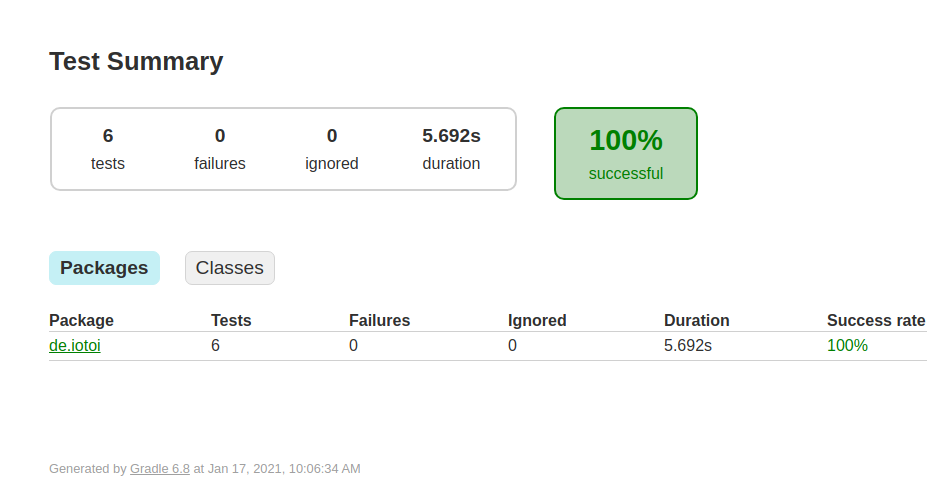
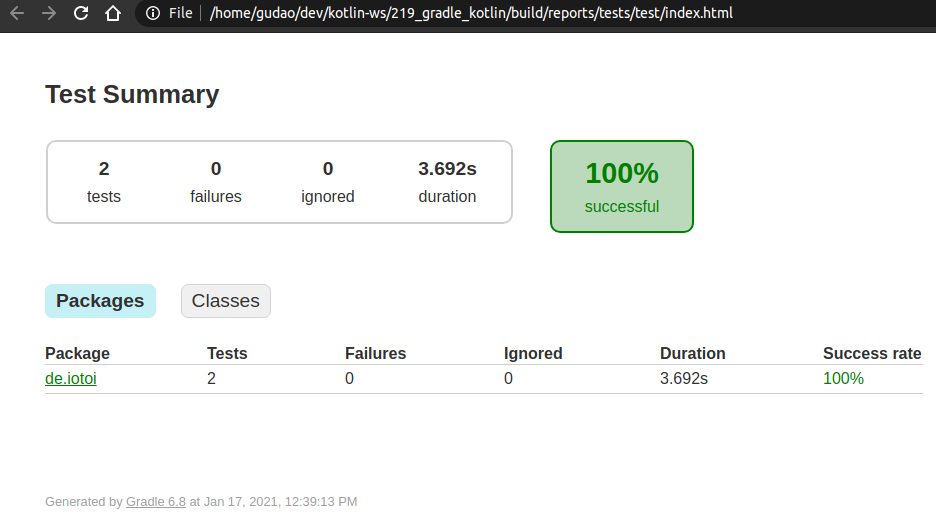
Unit 219: Hello @Order!

diff --git a/src/test/kotlin/de/iotoi/RestAssuredOrderTests.kt b/src/test/kotlin/de/iotoi/RestAssuredOrderTests.kt
@@ -1,0 +1,55 @@
+package de.iotoi
+
+import de.iotoi.model.Book
+import io.restassured.RestAssured
+import org.apache.commons.lang3.RandomStringUtils
+import org.assertj.core.api.Assertions
+import org.junit.jupiter.api.AfterAll
+import org.junit.jupiter.api.MethodOrderer.OrderAnnotation
+import org.junit.jupiter.api.Order
+import org.junit.jupiter.api.Test
+import org.junit.jupiter.api.TestMethodOrder
+import org.springframework.http.HttpStatus
+import org.springframework.http.MediaType
+
+
+@TestMethodOrder(OrderAnnotation::class)
+class RestAssuredOrderTests {
+    private fun createRandomBook(): Book {
+        val book = Book()
+        book.title = RandomStringUtils.randomAlphabetic(10)
+        book.author = RandomStringUtils.randomAlphabetic(15)
+        return book
+    }
+
+    @Test
+    @Order(1)
+    fun firstTest() {
+        val response = RestAssured.get(API_ROOT)
+        Assertions.assertThat(HttpStatus.OK.value()).isEqualTo(response.statusCode)
+
+        output.append("get;")
+    }
+
+    @Test
+    @Order(2)
+    fun secondTest() {
+        val book = createRandomBook()
+        val response = RestAssured.given()
+            .contentType(MediaType.APPLICATION_JSON_VALUE)
+            .body(book)
+            .post(API_ROOT)
+        Assertions.assertThat(HttpStatus.CREATED.value()).isEqualTo(response.statusCode)
+
+        output.append("create;")
+    }
+
+    companion object {
+        private const val API_ROOT = "http://localhost:8080/api/books"
+        private val output = StringBuilder("")
+        @AfterAll
+        fun assertOutput() {
+            Assertions.assertThat(output.toString()).isEqualTo("get;create;")
+        }
+    }
+}

diff --git a/README.md b/README.md
@@ -11,17 +11,15 @@
 [![kotlin lang)](https://img.shields.io/github/v/release/JetBrains/kotlin?label=kotlin&logo=kotlin)](https://github.com/JetBrains/kotlin)
 [![IntelliJ IDEA Community Edition](https://img.shields.io/badge/IntelliJ%20IDEA%20Community%20Edition-blue?style=flat)](https://www.jetbrains.com/idea/download/#section=linux)
 [![Docker-(2019.03.13)](https://img.shields.io/badge/Docker-%2019.03.13-brightgreen)](https://www.docker.com/)
-[![CircleCI](https://circleci.com/gh/cnruby/gradle_kotlin/tree/basic_218.svg?style=svg)](https://app.circleci.com/pipelines/github/cnruby/gradle_kotlin?branch=basic_218)
+[![CircleCI](https://circleci.com/gh/cnruby/gradle_kotlin/tree/basic_219.svg?style=svg)](https://app.circleci.com/pipelines/github/cnruby/gradle_kotlin?branch=basic_219)
 
 
 ---
 
-Unit 218: Hello REST Assured!
-<h1>Unit 218: Hello REST Assured!</h1>
+Unit 219: Hello @Order!
+<h1>Unit 219: Hello @Order!</h1>
 
-- How to Understand The REST Assured 
-- REST Assured is a Java DSL
-- REST Assured simplify testing of REST based services built on top of HTTP Builder
+- How to Understand The Annotation @Order!
 
 
 ---
@@ -35,16 +33,8 @@ Unit 218: Hello REST Assured!
 - [Create A New Kotlin Web App](#create-a-new-kotlin-web-app)
   - [DO (create a new project)](#do-create-a-new-project)
   - [DO (check the project)](#do-check-the-project)
-- [Develop the gradle build file](#develop-the-gradle-build-file)
-  - [DO (add the package `rest-assured` to the gradle build file)](#do-add-the-package-rest-assured-to-the-gradle-build-file)
-  - [DO (check the project to get the error)](#do-check-the-project-to-get-the-error)
-  - [DO (edit a gradle build file for spring boot)](#do-edit-a-gradle-build-file-for-spring-boot)
-  - [DO (check the project again to get many warnings)](#do-check-the-project-again-to-get-many-warnings)
-  - [DO (edit a gradle build file for spring boot again)](#do-edit-a-gradle-build-file-for-spring-boot-again)
-  - [DO (check the project noch again)](#do-check-the-project-noch-again)
-- [DO (Upgrade the gradle version to 6.8)](#do-upgrade-the-gradle-version-to-68)
-- [Develop REST Assured Testing for The Web App](#develop-rest-assured-testing-for-the-web-app)
-  - [DO (add a new book controller testing file)](#do-add-a-new-book-controller-testing-file)
+- [Develop REST Assured Testing about the Annotation @Order](#develop-rest-assured-testing-about-the-annotation-order)
+  - [DO (add a new book testing file with the annotation @Order)](#do-add-a-new-book-testing-file-with-the-annotation-order)
   - [DO (start the web app)](#do-start-the-web-app)
   - [DO (run the testing in the project with gradle)](#do-run-the-testing-in-the-project-with-gradle)
   - [DO (see the testing report)](#do-see-the-testing-report)
@@ -55,7 +45,7 @@ Unit 218: Hello REST Assured!
 
 
 ## Keywords
-- `Rest Assured` `Web Application` REST API Testing
+- Annotation `@Order` `Rest Assured` `Web Application` REST API Testing
 - `Java JDK` `Command Line Kotlin Compiler` `IntelliJ CE` CircleCI CI
 - tutorial example Kotlin REPL Ubuntu Gradle jabba JDK Java JVM
 - database h2 Console `Spring Boot` `Spring DataSource` JPA Hibernate Classpath h2
@@ -77,7 +67,7 @@ Unit 218: Hello REST Assured!
 
 ### DO (create a new project)
 ```bash
-EXISTING_APP_ID=216 && NEW_APP_ID=218 && \
+EXISTING_APP_ID=218 && NEW_APP_ID=219 && \
 git clone -b basic_${EXISTING_APP_ID} https://github.com/cnruby/gradle_kotlin.git ${NEW_APP_ID}_gradle_kotlin && \
 cd ${NEW_APP_ID}_gradle_kotlin
 ```
@@ -93,220 +83,70 @@ cd ${NEW_APP_ID}_gradle_kotlin
 
 
 
-## Develop the gradle build file
+## Develop REST Assured Testing about the Annotation @Order
 
-### DO (add the package `rest-assured` to the gradle build file)
+### DO (add a new book testing file with the annotation @Order)
 ```bash
-nano ./build.gradle.kts
-```
-```sql
--- FILE (build.gradle.kts)
-...
-	testImplementation("org.springframework.boot:spring-boot-starter-test")
-	testImplementation("io.rest-assured:rest-assured")
-}
-```
-
-### DO (check the project to get the error)
-```bash
-./gradlew -q clean check
+touch ./src/test/kotlin/de/iotoi/RestAssuredOrderTests.kt
 ```
 ```bash
-    # >> Result
-    Errors occurred while build effective model from /home/gudao/.gradle/caches/modules-2/files-2.1/com.sun.xml.bind/jaxb-osgi/2.2.10/c926a537af564ec047ec6308df1d0d2a03364a86/jaxb-osgi-2.2.10.pom:
-    'dependencyManagement.dependencies.dependency.systemPath' for com.sun:tools:jar must specify an absolute path but is ${tools.jar} in com.sun.xml.bind:jaxb-osgi:2.2.10    
-```
-
-### DO (edit a gradle build file for spring boot)
-```bash
-nano ./build.gradle.kts
-```
-```sql
--- FILE (build.gradle.kts)
-...
-	testImplementation("org.springframework.boot:spring-boot-starter-test")
-	testImplementation("io.rest-assured:rest-assured"){
-		exclude("com.sun.xml.bind", "jaxb-osgi")
-	}
-}
-...
-```
-
-### DO (check the project again to get many warnings)
-
-```bash
-./gradlew -q check
-```
-```bash
-    # >> Result
-    WARNING: An illegal reflective access operation has occurred
-    WARNING: Illegal reflective access by org.codehaus.groovy.reflection.CachedClass (file:/home/gudao/.gradle/caches/modules-2/files-2.1/org.codehaus.groovy/groovy/2.5.14/f0a005fb21e7bd9b7ebf04cd2ecda0fc8f3be59d/groovy-2.5.14.jar) to method java.lang.Object.finalize()
-    WARNING: Please consider reporting this to the maintainers of org.codehaus.groovy.reflection.CachedClass
-    WARNING: Use --illegal-access=warn to enable warnings of further illegal reflective access operations
-    WARNING: All illegal access operations will be denied in a future release
-```
-
-### DO (edit a gradle build file for spring boot again)
-```bash
-nano ./build.gradle.kts
-```
-```sql
--- FILE (build.gradle.kts)
-...
-	useJUnitPlatform()
-	jvmArgs("--illegal-access=deny")
-...
-```
-
-### DO (check the project noch again)
-```bash
-./gradlew -q clean check
-```
-```bash
-    # >> Result: nothing
-```
-
-
-
-
-## DO (Upgrade the gradle version to 6.8)
-```bash
-./gradlew wrapper --gradle-version=6.8
-```
-```bash
-    # >> Result
-    Welcome to Gradle 6.8!
-    
-    Here are the highlights of this release:
-     - Faster Kotlin DSL script compilation
-     - Vendor selection for Java toolchains
-     - Convenient execution of tasks in composite builds
-     - Consistent dependency resolution
-    
-    For more details see https://docs.gradle.org/6.8/release-notes.html
-```
-
-
-
-
-## Develop REST Assured Testing for The Web App
-
-### DO (add a new book controller testing file)
-```bash
-touch ./src/test/kotlin/de/iotoi/RestAssuredBookControllerTests.kt
-```
-```bash
-nano ./src/test/kotlin/de/iotoi/RestAssuredBookControllerTests.kt
+nano ./src/test/kotlin/de/iotoi/RestAssuredOrderTests.kt
 ```
 ```kotlin
-# FILE (RestAssuredBookControllerTests.kt)
+// FILE (RestAssuredOrderTests)
 package de.iotoi
 
 import de.iotoi.model.Book
 import io.restassured.RestAssured
-import io.restassured.response.Response
 import org.apache.commons.lang3.RandomStringUtils
-import org.assertj.core.api.Assertions.assertThat
+import org.assertj.core.api.Assertions
+import org.junit.jupiter.api.AfterAll
+import org.junit.jupiter.api.MethodOrderer.OrderAnnotation
+import org.junit.jupiter.api.Order
 import org.junit.jupiter.api.Test
+import org.junit.jupiter.api.TestMethodOrder
 import org.springframework.http.HttpStatus
 import org.springframework.http.MediaType
 
+@TestMethodOrder(OrderAnnotation::class)
+class RestAssuredOrderTests {
+  private fun createRandomBook(): Book {
+    val book = Book()
+    book.title = RandomStringUtils.randomAlphabetic(10)
+    book.author = RandomStringUtils.randomAlphabetic(15)
+    return book
+  }
 
-class RestAssuredBookControllerTests {
-    private fun createRandomBook(): Book {
-        val book = Book()
-        book.title = RandomStringUtils.randomAlphabetic(10)
-        book.author = RandomStringUtils.randomAlphabetic(15)
-        return book
-    }
+  @Test
+  @Order(1)
+  fun firstTest() {
+    val response = RestAssured.get(API_ROOT)
+    Assertions.assertThat(HttpStatus.OK.value()).isEqualTo(response.statusCode)
 
-    private fun createBookAsUri(book: Book): String {
-        val response: Response = RestAssured.given()
-            .contentType(MediaType.APPLICATION_JSON_VALUE)
-            .body(book)
-            .post(API_ROOT)
-        return API_ROOT + "/" + response.jsonPath().get("id")
-    }
+    output.append("get;")
+  }
 
-    /*******************************************
-     *
-     * test finding books using variant methods
-     *
-     */
-    @Test
-    fun whenGetAllBooks_thenOK() {
-        val response = RestAssured.get(API_ROOT)
-        assertThat(HttpStatus.OK.value()).isEqualTo(response.statusCode)
-    }
+  @Test
+  @Order(2)
+  fun secondTest() {
+    val book = createRandomBook()
+    val response = RestAssured.given()
+      .contentType(MediaType.APPLICATION_JSON_VALUE)
+      .body(book)
+      .post(API_ROOT)
+    Assertions.assertThat(HttpStatus.CREATED.value()).isEqualTo(response.statusCode)
 
-    @Test
-    fun whenGetBooksByTitle_thenOK() {
-        val book: Book = createRandomBook()
-        createBookAsUri(book)
-        val response = RestAssured.get(
-            API_ROOT + "/title/" + book.title
-        )
-        assertThat(HttpStatus.OK.value()).isEqualTo(response.statusCode)
-        assertThat(
-            response.`as`<List<*>>(MutableList::class.java).isNotEmpty()
-        ).isTrue
-    }
+    output.append("create;")
+  }
 
-    @Test
-    fun whenGetCreatedBookById_thenOK() {
-        val book: Book = createRandomBook()
-        val location = createBookAsUri(book)
-        val response = RestAssured.get(location)
-        assertThat(HttpStatus.OK.value()).isEqualTo(response.statusCode)
-        assertThat(book.title).isEqualTo(response.jsonPath()["title"])
+  companion object {
+    private const val API_ROOT = "http://localhost:8080/api/books"
+    private val output = StringBuilder("")
+    @AfterAll
+    fun assertOutput() {
+      Assertions.assertThat(output.toString()).isEqualTo("get;create;")
     }
-
-    @Test
-    fun whenGetNotExistBookById_thenNotFound() {
-        val response = RestAssured.get(API_ROOT + "/" + RandomStringUtils.randomNumeric(4))
-        println("response.statusCode = " + response.statusCode)
-        assertThat(HttpStatus.NOT_FOUND.value()).isEqualTo(response.statusCode)
-    }
-
-    /*************************************
-     *
-     * test creating a new book
-     *
-     */
-    @Test
-    fun whenCreateNewBook_thenCreated() {
-        val book: Book = createRandomBook()
-        val response: Response = RestAssured.given()
-            .contentType(MediaType.APPLICATION_JSON_VALUE)
-            .body(book)
-            .post(API_ROOT)
-        assertThat(HttpStatus.CREATED.value()).isEqualTo(response.statusCode)
-    }
-
-    /*************************************
-     *
-     * test updating an existing book
-     *
-     */
-    @Test
-    fun whenUpdateCreatedBook_thenUpdated() {
-        val book: Book = createRandomBook()
-        val location = createBookAsUri(book)
-        book.id = location.split("api/books/").toTypedArray()[1].toLong()
-        book.author = "newAuthor"
-        var response: Response = RestAssured.given()
-            .contentType(MediaType.APPLICATION_JSON_VALUE)
-            .body(book)
-            .put(location)
-        assertThat(HttpStatus.OK.value()).isEqualTo(response.statusCode)
-        response = RestAssured.get(location)
-        assertThat(HttpStatus.OK.value()).isEqualTo(response.statusCode)
-        assertThat("newAuthor").isEqualTo(response.jsonPath().get("author"))
-    }
-
-    companion object {
-        private const val API_ROOT = "http://localhost:8080/api/books"
-    }
+  }
 }
 ```
 
@@ -322,7 +162,7 @@ class RestAssuredBookControllerTests {
 
 ### DO (run the testing in the project with gradle)
 ```bash
-./gradlew -q clean test --tests de.iotoi.RestAssuredBookControllerTests
+./gradlew -q clean test --tests de.iotoi.RestAssuredOrderTests
 ```
 ```bash
     # >> Result: nothing
@@ -350,6 +190,7 @@ google-chrome ./build/reports/tests/test/index.html
 - https://www.xspdf.com/resolution/58300460.html
 - https://www.xspdf.com/resolution/52404548.html
 - https://docs.microsoft.com/en-us/azure/developer/java/fundamentals/transition-from-java-8-to-java-11
+
 
 
 
